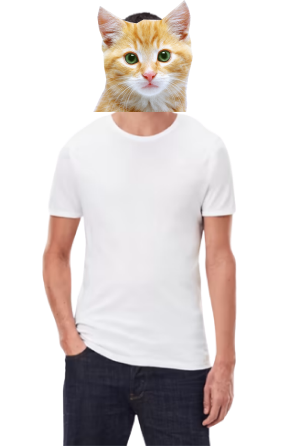
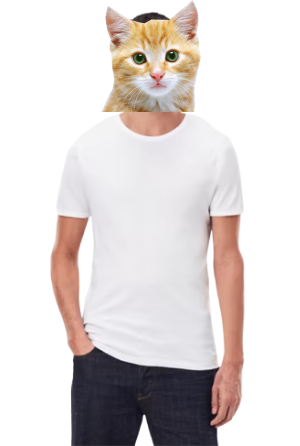
Product spotify page shirt and images for tshirts

diff --git a/src/components/Product.jsx b/src/components/Product.jsx
@@ -1,48 +1,105 @@
-import React from 'react';
+import React, { useContext } from 'react';
+import PropTypes from 'prop-types';
+import Tabs from '@mui/material/Tabs';
+import Tab from '@mui/material/Tab';
+import Box from '@mui/material/Box';
 import ItemCarousel from './ItemCarousel';
-import styles from './Styles.module.css';
-import wishlist from '../assets/img/heart_img.png';
+import { SpotifyContext } from '../SpotifyContext'; // Spotify context import
 
-function Product() {
+function CustomTabPanel(props) {
+  const { children, value, index, ...other } = props;
+
   return (
-    <div>
-      <div className="relative">
-        <ItemCarousel />
-        <div className="absolute md:top-4 md:left-6 top-0 left-0 px-4 py-2 rounded-md z-10 rendering-pixelated flex gap-4">
-          <img width="48px" height="48px" className="cursor-pointer" src={wishlist}></img>
-          <p className="max-md:hidden">← I LOVE</p>
-        </div>
-        <h1 className="absolute md:top-4 md:right-6 top-0 right-0 text-2xl font-bold bg-black/60 px-4 py-2 rounded-md z-10">
-          $18.99
-        </h1>
-      </div>
-
-      <div className="flex flex-wrap justify-center lg:gap-16 gap-8 p-4 mt-8">
-        <div className="w-[320px] bg-[#defeff] outline outline-[#3d58ba] shadow-md p-6 rounded-lg">
-          <h2 className="text-2xl font-semibold mb-2">Super mooie tshirt van je moeder</h2>
-          <p className="text-lg">dit is echt fantastisch kharua skibidi rvspijker haha gay oke en nu wtf doe ik hallo wanneer fortnite</p>
-        </div>
-        <div className="w-[320px] bg-[#defeff] outline outline-[#3d58ba] shadow-md p-6 rounded-lg">
-          <h2 className="text-2xl font-semibold mb-2">Maten enzo haha</h2>
-          <p className="text-lg">XXS XS S M L XL XXL XXXL XXXXL EN ZELFS XXXXXL voor de discord mods</p>
-        </div>
-        <div className="w-[320px] bg-[#defeff] outline outline-[#3d58ba] shadow-md p-6 rounded-lg">
-          <h2 className="text-2xl font-semibold mb-2">Wordt ASAP (neit) geleverd met postNL</h2>
-          <p className="text-lg">Gast denk je nou echt dat dit bezorgt gaat worden?</p>
-        </div>
-      </div>
-
-      <div class="flex justify-center gap-6 mt-6 mb-4">
-        <button class="px-6 py-3 text-white text-xl font-bold bg-gradient-to-r from-pink-500 via-green-400 to-yellow-300 border-4 border-black rounded-xl shadow-lg shadow-pink-500 animate-bounce hover:rotate-6 transition-all duration-300">
-          BUY NOW!!!
-        </button>
-        <button class="px-6 py-3 text-white text-xl font-bold bg-gradient-to-r from-yellow-300 via-blue-400 to-pink-500 border-4 border-black rounded-xl shadow-lg shadow-blue-500 animate-pulse hover:-rotate-6 transition-all duration-300">
-          In cart pls
-        </button>
-      </div>
-
+    <div
+      role="tabpanel"
+      hidden={value !== index}
+      id={`simple-tabpanel-${index}`}
+      aria-labelledby={`simple-tab-${index}`}
+      {...other}
+    >
+      {value === index && <Box sx={{ p: 3 }}>{children}</Box>}
     </div>
   );
 }
 
-export default Product;
+CustomTabPanel.propTypes = {
+  children: PropTypes.node,
+  index: PropTypes.number.isRequired,
+  value: PropTypes.number.isRequired,
+};
+
+function a11yProps(index) {
+  return {
+    id: `simple-tab-${index}`,
+    'aria-controls': `simple-tabpanel-${index}`,
+  };
+}
+
+export default function Product() {
+  const [value, setValue] = React.useState(0);
+  const { topArtist } = useContext(SpotifyContext); // Access Spotify data
+
+  const handleChange = (event, newValue) => {
+    setValue(newValue);
+  };
+
+  const artistName = topArtist?.name || '?????????';
+  const popularity = topArtist?.popularity || '??';
+  const discount = topArtist?.popularity * 2 || '??';
+  const artistImage = topArtist?.images?.[0]?.url;
+
+  return (
+    <div className="flex flex-col items-center mb-4">
+      <div className="w-full max-w-6xl grid grid-cols-1 md:grid-cols-2 gap-8 bg-[#ffffff70] border border-4 border-[#00000080] rounded-lg p-8 w-auto">
+        <div className="relative">
+          <ItemCarousel artistImage={artistImage} />
+        </div>
+
+        {/* Right side - Product details */}
+        <div className="space-y-4">
+          <h1 className="md:text-2xl text-lg font-bold -mb-2">{artistName} tshirt super cool YEAHHH</h1>
+          <p className="md:text-lg text-sm">★★★★☆ based on <span className="cursor-pointer hover:underline">1.492.489 reviews</span></p>
+
+          <p className="text-[#FFFF10] outline-[#000] font-semibold">
+            <span className="md:text-lg text-sm drop-shadow-[0_1.2px_1.2px_rgba(0,0,0,0.8)]">SPECIAL OFFER! 50% OFF</span> <span className="line-through text-[#000] md:text-lg text-sm ">${discount}.00 USD</span> <span className="text-[#000] md:text-lg text-sm ">${popularity}.00 USD</span>
+          </p>
+
+          <div>
+            <h1 className="md:text-lg text-sm font-medium -mb-2">How many does bro want? <span className="md:text-lg text-sm text-[#00000064]">(sorry 1 per person)</span> </h1>
+          </div>
+
+          <div className="flex gap-4">
+            <div className="flex items-center border border-black max-md:hidden">
+              <button className="w-12 h-12 border-r border-black border-2 bg-[#efefef] cursor-not-allowed opacity-40" disabled>-</button>
+              <span className="w-20 h-12 flex items-center justify-center border-2 bg-[#ffffff] pb-0.5">1</span>
+              <button className="w-12 h-12 border-l border-black border-2 bg-[#efefef] cursor-not-allowed opacity-40" disabled>+</button>
+            </div>
+            <button className="bg-[#0A1B41] text-[#fff] w-40 h-12 text-lg transition-shadow duration-200 hover:[box-shadow:0_0px_16px_12px_rgba(10,27,65,0.3)] active:text-[#dedede] max-md:mt-3">
+              Add to Cart
+            </button>
+          </div>
+
+          {/* Tabs below Add to Cart */}
+          <div className="pt-1 max-md:text-sm">
+            <Box sx={{ width: '100%' }}>
+              <Box sx={{ borderBottom: 1, borderColor: 'divider' }}>
+                <Tabs value={value} onChange={handleChange} aria-label="product details tabs">
+                  <Tab label="Information" {...a11yProps(0)} />
+                  <Tab label="Shipping" {...a11yProps(1)} />
+                </Tabs>
+              </Box>
+              <CustomTabPanel value={value} index={0}>
+                {topArtist
+                  ? `super nice ${artistName} tshirt designed for fans who live and breathe their music.`
+                  : 'Tshirt made of 100% cotton, with a unique design that will make you the talk of the town. Available in all sizes, from S to XXL.'}
+              </CustomTabPanel>
+              <CustomTabPanel value={value} index={1}>
+                We ain't shippin ts🥀 sybau icl ts pmo gurt: yo
+              </CustomTabPanel>
+            </Box>
+          </div>
+        </div>
+      </div>
+    </div>
+  );
+}

diff --git a/src/components/ItemCarousel.jsx b/src/components/ItemCarousel.jsx
@@ -1,54 +1,57 @@
 import React from 'react';
-// Import Swiper React components
 import { Swiper, SwiperSlide } from 'swiper/react';
-
-import testimg from '../assets/img/clothing_img/shirt/cat_withshirt_small.png';
-
-// Import Swiper styles
+import frontimg from '../assets/img/clothing_img/shirt/cat_withshirt_small.png';
+import backimg from '../assets/img/clothing_img/shirt/cat_withshirt_back.png';
+import sideimg from '../assets/img/clothing_img/shirt/cat_withshirt_side.png';
 import 'swiper/css';
 import 'swiper/css/zoom';
 import 'swiper/css/pagination';
 import 'swiper/css/navigation';
-
-// import required modules
 import { Pagination, Autoplay, Navigation } from 'swiper/modules';
 
+export default function ItemCarousel({ artistImage }) {
+  // Images to display in carousel
+  const images = [frontimg, backimg, sideimg];
 
-export default function App() {
+  // Positioning styles per slide for the artist image
+  const artistImagePositions = [
+    'top-1/2 left-1/2 -translate-x-1/2 -translate-y-1/2', // Front
+    'hidden', // Back
+    'top-1/2 left-1/2 -translate-x-1/2 -translate-y-1/2 w-[5%] ml-[10%] mt-[10%]' // Side
+  ];
+
   return (
-    <>
-      <div className="">
-        <Swiper
-          style={{
-            '--swiper-navigation-color': '#000',
-            '--swiper-pagination-color': '#000',
-          }}
-          zoom={true}
-          spaceBetween={0}
-          centeredSlides={true}
-          navigation={true}
-          autoplay={{
-            delay: 10000,
-            disableOnInteraction: false,
-          }}
-          modules={[Pagination, Autoplay, Navigation]}
-        >
-          {/* big slides */}
-          <SwiperSlide className="swiper-zoom-container">
-              <img src={testimg} alt="Slide 1" className="bg-[#fff]"/>
+    <div className="max-w-[500px] mx-auto relative">
+      <Swiper
+        style={{
+          '--swiper-navigation-color': '#000',
+          '--swiper-pagination-color': '#000',
+        }}
+        zoom={true}
+        spaceBetween={0}
+        centeredSlides={true}
+        navigation={true}
+        autoplay={{
+          delay: 10000,
+          disableOnInteraction: false,
+        }}
+        modules={[Pagination, Autoplay, Navigation]}
+      >
+        {images.map((img, index) => (
+          <SwiperSlide key={index} className="swiper-zoom-container">
+            <div className="relative">
+              <img src={img} alt={`Slide ${index + 1}`} className="bg-[#fff]" />
+              {artistImage && (
+                <img
+                  src={artistImage}
+                  alt="Top Artist"
+                  className={`absolute w-[30%] h-[20%] ${artistImagePositions[index]}`}
+                />
+              )}
+            </div>
           </SwiperSlide>
-          
-          <SwiperSlide className="swiper-zoom-container">
-              <img src={testimg} alt="Slide 1" className="bg-[#fff]"/>
-          </SwiperSlide>
-
-          <SwiperSlide className="swiper-zoom-container">
-              <img src={testimg} alt="Slide 1" className="bg-[#fff]"/>
-          </SwiperSlide>
-          
-          
-        </Swiper>
-      </div>
-    </>
+        ))}
+      </Swiper>
+    </div>
   );
 }
